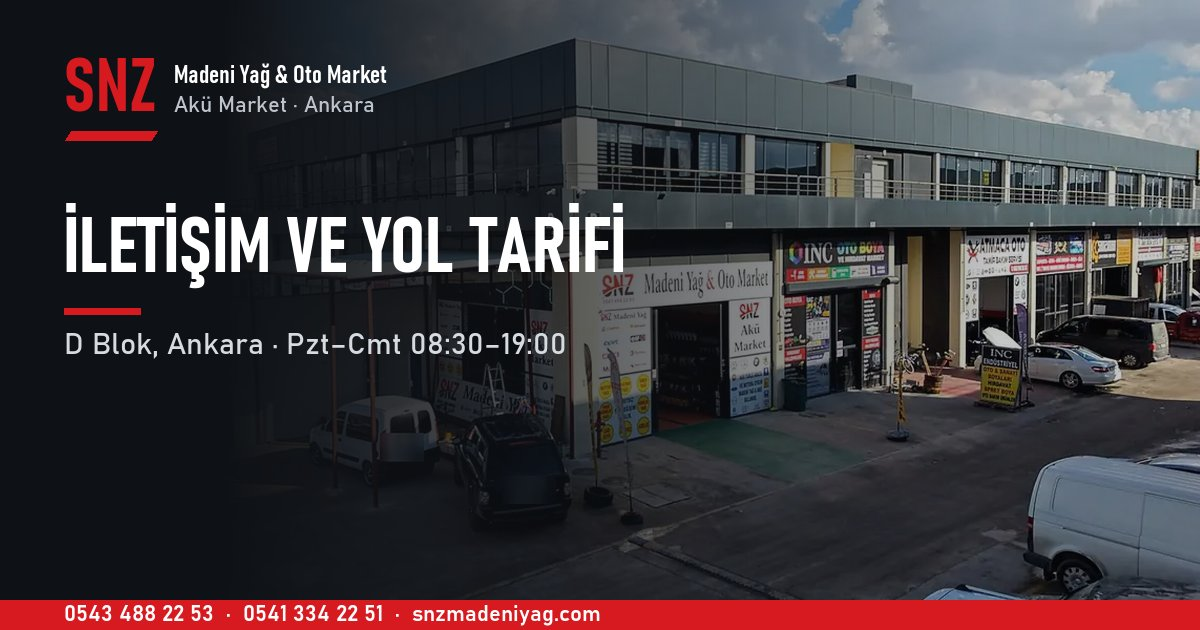
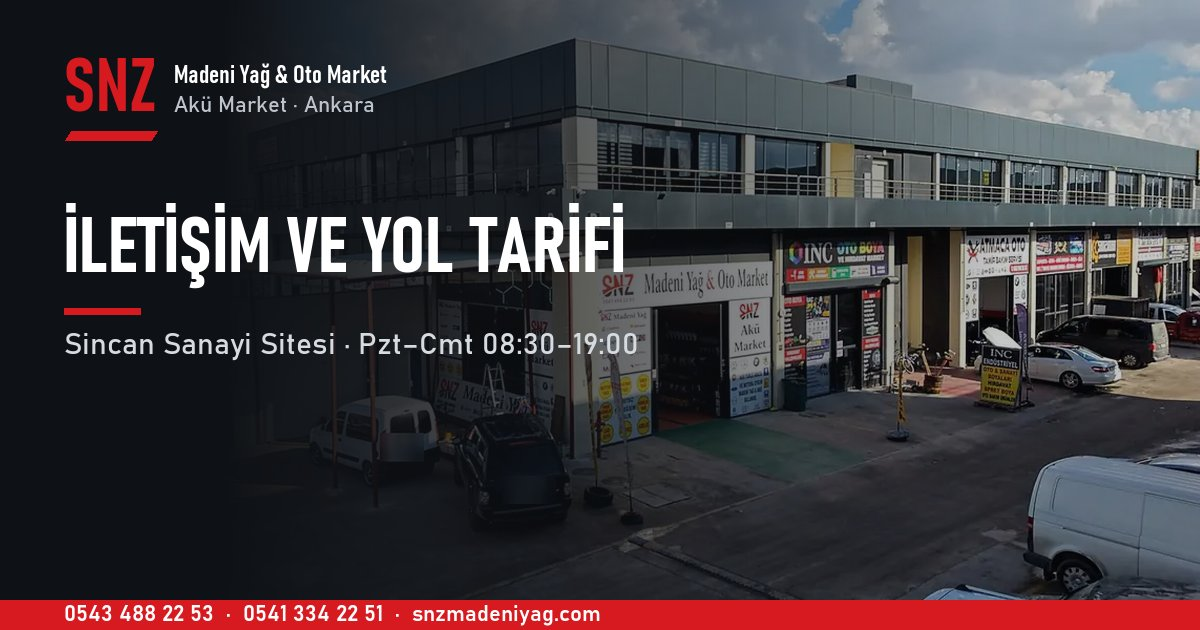
İletişim adresi güncellendi: Sehaş Arena İş Merkezi, Sincan Sanayi Sitesi

Changed region(s): [[0.0617, 0.5127, 0.5242, 0.573]]

diff --git a/index.html b/index.html
@@ -4,7 +4,7 @@
   <meta charset="UTF-8">
   <meta name="viewport" content="width=device-width, initial-scale=1.0">
   <title>SNZ Madeni Yağ &amp; Akü Market Ankara | Motor Yağı, Akü, AdBlue</title>
-  <meta name="description" content="Ankara D Blok&#x27;ta SNZ Madeni Yağ &amp; Oto Market ve SNZ Akü Market: Castrol, Shell, Mobil, Motul, Petrol Ofisi motor yağları, aküler, hidrolik ve gres yağları, AdBlue. Yağ değişimi ve ücretsiz akü testi.">
+  <meta name="description" content="Ankara Sincan Sanayi Sitesi&#x27;nde SNZ Madeni Yağ &amp; Oto Market ve SNZ Akü Market: Castrol, Shell, Mobil, Motul, Petrol Ofisi motor yağları, aküler, hidrolik ve gres yağları, AdBlue. Yağ değişimi ve ücretsiz akü testi.">
   <meta name="robots" content="index, follow">
   <link rel="canonical" href="https://www.snzmadeniyag.com/">
   <!-- Google Search Console: doğrulama kodunu _araclar/seo.py içindeki GSC_CODE alanına yazın -->
@@ -18,14 +18,14 @@
   <meta property="og:locale" content="tr_TR">
   <meta property="og:locale:alternate" content="en_US">
   <meta property="og:title" content="SNZ Madeni Yağ &amp; Akü Market Ankara | Motor Yağı, Akü, AdBlue">
-  <meta property="og:description" content="Ankara D Blok&#x27;ta SNZ Madeni Yağ &amp; Oto Market ve SNZ Akü Market: Castrol, Shell, Mobil, Motul, Petrol Ofisi motor yağları, aküler, hidrolik ve gres yağları, AdBlue. Yağ değişimi ve ücretsiz akü testi.">
+  <meta property="og:description" content="Ankara Sincan Sanayi Sitesi&#x27;nde SNZ Madeni Yağ &amp; Oto Market ve SNZ Akü Market: Castrol, Shell, Mobil, Motul, Petrol Ofisi motor yağları, aküler, hidrolik ve gres yağları, AdBlue. Yağ değişimi ve ücretsiz akü testi.">
   <meta property="og:url" content="https://www.snzmadeniyag.com/">
   <meta property="og:image" content="https://www.snzmadeniyag.com/assets/img/og/og-index.jpg">
   <meta property="og:image:width" content="1200">
   <meta property="og:image:height" content="630">
   <meta name="twitter:card" content="summary_large_image">
   <meta name="twitter:title" content="SNZ Madeni Yağ &amp; Akü Market Ankara | Motor Yağı, Akü, AdBlue">
-  <meta name="twitter:description" content="Ankara D Blok&#x27;ta SNZ Madeni Yağ &amp; Oto Market ve SNZ Akü Market: Castrol, Shell, Mobil, Motul, Petrol Ofisi motor yağları, aküler, hidrolik ve gres yağları, AdBlue. Yağ değişimi ve ücretsiz akü testi.">
+  <meta name="twitter:description" content="Ankara Sincan Sanayi Sitesi&#x27;nde SNZ Madeni Yağ &amp; Oto Market ve SNZ Akü Market: Castrol, Shell, Mobil, Motul, Petrol Ofisi motor yağları, aküler, hidrolik ve gres yağları, AdBlue. Yağ değişimi ve ücretsiz akü testi.">
   <meta name="twitter:image" content="https://www.snzmadeniyag.com/assets/img/og/og-index.jpg">
 
   <link rel="preconnect" href="https://fonts.googleapis.com">
@@ -68,8 +68,8 @@
      "telephone": "+90-543-488-22-53",
      "address": {
       "@type": "PostalAddress",
-      "streetAddress": "D Blok, Sanayi Sitesi",
-      "addressLocality": "Ankara",
+      "streetAddress": "Sehaş Arena İş Merkezi, Ahi Evran, 225. Cd. Sincan Sanayi Sitesi No:38D Blok1",
+      "addressLocality": "Sincan",
       "addressRegion": "Ankara",
       "addressCountry": "TR"
      },
@@ -103,8 +103,8 @@
      "telephone": "+90-541-334-22-51",
      "address": {
       "@type": "PostalAddress",
-      "streetAddress": "D Blok, Sanayi Sitesi",
-      "addressLocality": "Ankara",
+      "streetAddress": "Sehaş Arena İş Merkezi, Ahi Evran, 225. Cd. Sincan Sanayi Sitesi No:38D Blok1",
+      "addressLocality": "Sincan",
       "addressRegion": "Ankara",
       "addressCountry": "TR"
      },

diff --git a/hakkimizda.html b/hakkimizda.html
@@ -4,7 +4,7 @@
   <meta charset="UTF-8">
   <meta name="viewport" content="width=device-width, initial-scale=1.0">
   <title>Hakkımızda | SNZ Madeni Yağ &amp; Akü Market Ankara</title>
-  <meta name="description" content="SNZ Madeni Yağ &amp; Oto Market ve SNZ Akü Market: Ankara D Blok&#x27;ta yan yana iki mağaza. Orijinal ürün, uzman tavsiye ve uygun fiyatla madeni yağ ve akü.">
+  <meta name="description" content="SNZ Madeni Yağ &amp; Oto Market ve SNZ Akü Market: Sincan Sanayi Sitesi, Sehaş Arena İş Merkezi&#x27;nde yan yana iki mağaza. Orijinal ürün, uzman tavsiye ve uygun fiyatla madeni yağ ve akü.">
   <meta name="robots" content="index, follow">
   <link rel="canonical" href="https://www.snzmadeniyag.com/hakkimizda.html">
   <!-- Google Search Console: doğrulama kodunu _araclar/seo.py içindeki GSC_CODE alanına yazın -->
@@ -18,14 +18,14 @@
   <meta property="og:locale" content="tr_TR">
   <meta property="og:locale:alternate" content="en_US">
   <meta property="og:title" content="Hakkımızda | SNZ Madeni Yağ &amp; Akü Market Ankara">
-  <meta property="og:description" content="SNZ Madeni Yağ &amp; Oto Market ve SNZ Akü Market: Ankara D Blok&#x27;ta yan yana iki mağaza. Orijinal ürün, uzman tavsiye ve uygun fiyatla madeni yağ ve akü.">
+  <meta property="og:description" content="SNZ Madeni Yağ &amp; Oto Market ve SNZ Akü Market: Sincan Sanayi Sitesi, Sehaş Arena İş Merkezi&#x27;nde yan yana iki mağaza. Orijinal ürün, uzman tavsiye ve uygun fiyatla madeni yağ ve akü.">
   <meta property="og:url" content="https://www.snzmadeniyag.com/hakkimizda.html">
   <meta property="og:image" content="https://www.snzmadeniyag.com/assets/img/og/og-hakkimizda.jpg">
   <meta property="og:image:width" content="1200">
   <meta property="og:image:height" content="630">
   <meta name="twitter:card" content="summary_large_image">
   <meta name="twitter:title" content="Hakkımızda | SNZ Madeni Yağ &amp; Akü Market Ankara">
-  <meta name="twitter:description" content="SNZ Madeni Yağ &amp; Oto Market ve SNZ Akü Market: Ankara D Blok&#x27;ta yan yana iki mağaza. Orijinal ürün, uzman tavsiye ve uygun fiyatla madeni yağ ve akü.">
+  <meta name="twitter:description" content="SNZ Madeni Yağ &amp; Oto Market ve SNZ Akü Market: Sincan Sanayi Sitesi, Sehaş Arena İş Merkezi&#x27;nde yan yana iki mağaza. Orijinal ürün, uzman tavsiye ve uygun fiyatla madeni yağ ve akü.">
   <meta name="twitter:image" content="https://www.snzmadeniyag.com/assets/img/og/og-hakkimizda.jpg">
 
   <link rel="preconnect" href="https://fonts.googleapis.com">
@@ -55,8 +55,8 @@
      "telephone": "+90-543-488-22-53",
      "address": {
       "@type": "PostalAddress",
-      "streetAddress": "D Blok, Sanayi Sitesi",
-      "addressLocality": "Ankara",
+      "streetAddress": "Sehaş Arena İş Merkezi, Ahi Evran, 225. Cd. Sincan Sanayi Sitesi No:38D Blok1",
+      "addressLocality": "Sincan",
       "addressRegion": "Ankara",
       "addressCountry": "TR"
      },
@@ -90,8 +90,8 @@
      "telephone": "+90-541-334-22-51",
      "address": {
       "@type": "PostalAddress",
-      "streetAddress": "D Blok, Sanayi Sitesi",
-      "addressLocality": "Ankara",
+      "streetAddress": "Sehaş Arena İş Merkezi, Ahi Evran, 225. Cd. Sincan Sanayi Sitesi No:38D Blok1",
+      "addressLocality": "Sincan",
       "addressRegion": "Ankara",
       "addressCountry": "TR"
      },

diff --git a/iletisim.html b/iletisim.html
@@ -4,7 +4,7 @@
   <meta charset="UTF-8">
   <meta name="viewport" content="width=device-width, initial-scale=1.0">
   <title>İletişim ve Yol Tarifi | SNZ Madeni Yağ &amp; Akü Market Ankara</title>
-  <meta name="description" content="SNZ Madeni Yağ &amp; Oto Market ve SNZ Akü Market adres, telefon, WhatsApp ve çalışma saatleri. D Blok, Ankara. Pzt–Cmt 08:30–19:00.">
+  <meta name="description" content="SNZ Madeni Yağ &amp; Oto Market ve SNZ Akü Market adres, telefon, WhatsApp ve çalışma saatleri. Sehaş Arena İş Merkezi, Sincan Sanayi Sitesi, Ankara. Pzt–Cmt 08:30–19:00.">
   <meta name="robots" content="index, follow">
   <link rel="canonical" href="https://www.snzmadeniyag.com/iletisim.html">
   <!-- Google Search Console: doğrulama kodunu _araclar/seo.py içindeki GSC_CODE alanına yazın -->
@@ -18,14 +18,14 @@
   <meta property="og:locale" content="tr_TR">
   <meta property="og:locale:alternate" content="en_US">
   <meta property="og:title" content="İletişim ve Yol Tarifi | SNZ Madeni Yağ &amp; Akü Market Ankara">
-  <meta property="og:description" content="SNZ Madeni Yağ &amp; Oto Market ve SNZ Akü Market adres, telefon, WhatsApp ve çalışma saatleri. D Blok, Ankara. Pzt–Cmt 08:30–19:00.">
+  <meta property="og:description" content="SNZ Madeni Yağ &amp; Oto Market ve SNZ Akü Market adres, telefon, WhatsApp ve çalışma saatleri. Sehaş Arena İş Merkezi, Sincan Sanayi Sitesi, Ankara. Pzt–Cmt 08:30–19:00.">
   <meta property="og:url" content="https://www.snzmadeniyag.com/iletisim.html">
   <meta property="og:image" content="https://www.snzmadeniyag.com/assets/img/og/og-iletisim.jpg">
   <meta property="og:image:width" content="1200">
   <meta property="og:image:height" content="630">
   <meta name="twitter:card" content="summary_large_image">
   <meta name="twitter:title" content="İletişim ve Yol Tarifi | SNZ Madeni Yağ &amp; Akü Market Ankara">
-  <meta name="twitter:description" content="SNZ Madeni Yağ &amp; Oto Market ve SNZ Akü Market adres, telefon, WhatsApp ve çalışma saatleri. D Blok, Ankara. Pzt–Cmt 08:30–19:00.">
+  <meta name="twitter:description" content="SNZ Madeni Yağ &amp; Oto Market ve SNZ Akü Market adres, telefon, WhatsApp ve çalışma saatleri. Sehaş Arena İş Merkezi, Sincan Sanayi Sitesi, Ankara. Pzt–Cmt 08:30–19:00.">
   <meta name="twitter:image" content="https://www.snzmadeniyag.com/assets/img/og/og-iletisim.jpg">
 
   <link rel="preconnect" href="https://fonts.googleapis.com">
@@ -55,8 +55,8 @@
      "telephone": "+90-543-488-22-53",
      "address": {
       "@type": "PostalAddress",
-      "streetAddress": "D Blok, Sanayi Sitesi",
-      "addressLocality": "Ankara",
+      "streetAddress": "Sehaş Arena İş Merkezi, Ahi Evran, 225. Cd. Sincan Sanayi Sitesi No:38D Blok1",
+      "addressLocality": "Sincan",
       "addressRegion": "Ankara",
       "addressCountry": "TR"
      },
@@ -90,8 +90,8 @@
      "telephone": "+90-541-334-22-51",
      "address": {
       "@type": "PostalAddress",
-      "streetAddress": "D Blok, Sanayi Sitesi",
-      "addressLocality": "Ankara",
+      "streetAddress": "Sehaş Arena İş Merkezi, Ahi Evran, 225. Cd. Sincan Sanayi Sitesi No:38D Blok1",
+      "addressLocality": "Sincan",
       "addressRegion": "Ankara",
       "addressCountry": "TR"
      },

diff --git a/assets/js/main.js b/assets/js/main.js
@@ -8,12 +8,14 @@ const SITE = {
   phone2: "0541 334 22 51",
   whatsapp: "905434882253",           // başında 90, boşluksuz
   email: "info@snzmadeniyag.com",     // TODO: gerçek e-posta
-  address: "D Blok, Sanayi Sitesi, Ankara", // TODO: tam adres
-  addressEn: "Block D, Industrial Estate, Ankara, Türkiye",
-  mapQuery: "SNZ Madeni Yağ Oto Market Ankara", // TODO: harita için tam adres
+  address: "Sehaş Arena İş Merkezi, Ahi Evran, 225. Cd. Sincan Sanayi Sitesi No:38D Blok1, Sincan/Ankara",
+  addressShort: "Sehaş Arena İş Merkezi, Sincan Sanayi Sitesi, Ankara", // üst bar için kısa hali
+  addressShortEn: "Sehaş Arena Business Center, Sincan Industrial Estate, Ankara",
+  addressEn: "Sehaş Arena Business Center, Ahi Evran, 225th St., Sincan Industrial Estate No:38D Block 1, Sincan/Ankara, Türkiye",
+  mapQuery: "Sehaş Arena İş Merkezi, 225. Cd. No:38, Sincan Sanayi Sitesi, Sincan/Ankara",
   hours: { weekdays: "08:30 – 19:00", saturday: "08:30 – 19:00", sunday: "Kapalı", sundayEn: "Closed" },
   instagram: "#",
-  mapsUrl: "https://www.google.com/maps/search/?api=1&query=" + encodeURIComponent("SNZ Madeni Yağ Oto Market Ankara"), // TODO: Google Maps paylaşım linki
+  mapsUrl: "https://www.google.com/maps/search/?api=1&query=" + encodeURIComponent("Sehaş Arena İş Merkezi, 225. Cd. No:38, Sincan Sanayi Sitesi, Sincan/Ankara"), // TODO: Google Maps paylaşım linki
   googleReviewsUrl: "",  // TODO: Google işletme profilindeki "Yorum yaz" linki
 };
 
@@ -80,8 +82,8 @@ function renderLayout() {
     <div class="container">
       <div class="topbar-info">
         <span>${svg("phone")}<a href="${tel(SITE.phone1)}">${SITE.phone1}</a></span>
-        <span class="hide-sm">${svg("pin")}<span data-en="${SITE.addressEn}">${SITE.address}</span></span>
-        <span class="hide-sm">${svg("clock")}<span data-en="Mon – Sat: ${SITE.hours.weekdays}">Pzt – Cmt: ${SITE.hours.weekdays}</span></span>
+        <span class="hide-sm">${svg("pin")}<a href="${SITE.mapsUrl}" target="_blank" rel="noopener" data-en="${SITE.addressShortEn}">${SITE.addressShort}</a></span>
+        <span class="hide-sm hide-md">${svg("clock")}<span data-en="Mon – Sat: ${SITE.hours.weekdays}">Pzt – Cmt: ${SITE.hours.weekdays}</span></span>
       </div>
       <div class="lang-switch" role="group" aria-label="Dil / Language">
         <button type="button" data-lang="tr">TR</button><button type="button" data-lang="en">EN</button>

diff --git a/assets/css/style.css b/assets/css/style.css
@@ -91,6 +91,9 @@ p { margin: 0 0 1em; }
 .topbar a:hover { color: #fff; }
 .topbar-info { display: flex; gap: 22px; flex-wrap: wrap; }
 .topbar-info span { display: inline-flex; align-items: center; gap: 6px; }
+.topbar-info { flex-wrap: nowrap; min-width: 0; }
+.topbar-info span { white-space: nowrap; }
+@media (max-width: 1080px) { .topbar-info span.hide-md { display: none; } }
 .topbar svg { width: 15px; height: 15px; color: var(--red); }
 
 .lang-switch { display: inline-flex; border: 1px solid #3a424b; border-radius: 6px; overflow: hidden; }

diff --git a/_araclar/seo.py b/_araclar/seo.py
@@ -13,8 +13,8 @@ BASE_PATH = "/snzmadeniyag/"                # GitHub Pages önizlemesi; kendi al
 GSC_CODE = ""                                # Google Search Console doğrulama kodu (content="..." değeri)
 
 PHONE1, PHONE2 = "+90-543-488-22-53", "+90-541-334-22-51"
-STREET = "D Blok, Sanayi Sitesi"             # TODO: tam adres
-CITY, REGION = "Ankara", "Ankara"
+STREET = "Sehaş Arena İş Merkezi, Ahi Evran, 225. Cd. Sincan Sanayi Sitesi No:38D Blok1"
+CITY, REGION = "Sincan", "Ankara"
 HOURS = [{"@type": "OpeningHoursSpecification",
           "dayOfWeek": ["Monday", "Tuesday", "Wednesday", "Thursday", "Friday", "Saturday"],
           "opens": "08:30", "closes": "19:00"}]
@@ -22,10 +22,10 @@ HOURS = [{"@type": "OpeningHoursSpecification",
 # sayfa: (başlık, açıklama, og görseli, işaret yolu adı, indexlensin mi, sitemap önceliği)
 PAGES = {
  "index.html": ("SNZ Madeni Yağ & Akü Market Ankara | Motor Yağı, Akü, AdBlue",
-   "Ankara D Blok'ta SNZ Madeni Yağ & Oto Market ve SNZ Akü Market: Castrol, Shell, Mobil, Motul, Petrol Ofisi motor yağları, aküler, hidrolik ve gres yağları, AdBlue. Yağ değişimi ve ücretsiz akü testi.",
+   "Ankara Sincan Sanayi Sitesi'nde SNZ Madeni Yağ & Oto Market ve SNZ Akü Market: Castrol, Shell, Mobil, Motul, Petrol Ofisi motor yağları, aküler, hidrolik ve gres yağları, AdBlue. Yağ değişimi ve ücretsiz akü testi.",
    "og-index.jpg", None, True, "1.0"),
  "hakkimizda.html": ("Hakkımızda | SNZ Madeni Yağ & Akü Market Ankara",
-   "SNZ Madeni Yağ & Oto Market ve SNZ Akü Market: Ankara D Blok'ta yan yana iki mağaza. Orijinal ürün, uzman tavsiye ve uygun fiyatla madeni yağ ve akü.",
+   "SNZ Madeni Yağ & Oto Market ve SNZ Akü Market: Sincan Sanayi Sitesi, Sehaş Arena İş Merkezi'nde yan yana iki mağaza. Orijinal ürün, uzman tavsiye ve uygun fiyatla madeni yağ ve akü.",
    "og-hakkimizda.jpg", "Hakkımızda", True, "0.8"),
  "urunler.html": ("Ürünler: Motor Yağı, Akü, Gres, AdBlue | SNZ Ankara",
    "Tam sentetik ve mineral motor yağları, binek ve ağır vasıta aküleri, hidrolik, şanzıman ve gres yağları, AdBlue, antifriz ve bakım ürünleri. Ankara'da stoktan teslim.",
@@ -46,7 +46,7 @@ PAGES = {
    "Hangi motor yağı uygun, yağ ne sıklıkla değişir, akü ne zaman değişmeli, AdBlue nedir? Motor yağı ve akü hakkında kısa ve net cevaplar.",
    "og-sss.jpg", "SSS", True, "0.6"),
  "iletisim.html": ("İletişim ve Yol Tarifi | SNZ Madeni Yağ & Akü Market Ankara",
-   "SNZ Madeni Yağ & Oto Market ve SNZ Akü Market adres, telefon, WhatsApp ve çalışma saatleri. D Blok, Ankara. Pzt–Cmt 08:30–19:00.",
+   "SNZ Madeni Yağ & Oto Market ve SNZ Akü Market adres, telefon, WhatsApp ve çalışma saatleri. Sehaş Arena İş Merkezi, Sincan Sanayi Sitesi, Ankara. Pzt–Cmt 08:30–19:00.",
    "og-iletisim.jpg", "İletişim", True, "0.8"),
  "gizlilik.html": ("Gizlilik Politikası ve KVKK Aydınlatma Metni | SNZ",
    "SNZ Madeni Yağ Ltd. Şti. KVKK aydınlatma metni ve çerez politikası: hangi verileri, hangi amaçla işlediğimiz ve haklarınız.",

diff --git a/_araclar/og.py b/_araclar/og.py
@@ -62,7 +62,7 @@ JOBS = [
  ("galeri/ga2.webp", "og-galeri.jpg", "Galeri", "Mağaza, atölye ve saha fotoğrafları"),
  ("galeri/g53.webp", "og-markalar.jpg", "Dünya Markaları Tek Çatı Altında", "Castrol · Shell · Mobil · Motul · Turbo Akü"),
  ("magaza-ic.webp", "og-sss.jpg", "Sıkça Sorulan Sorular", "Motor yağı ve akü hakkında net cevaplar"),
- ("bina-genis.webp", "og-iletisim.jpg", "İletişim ve Yol Tarifi", "D Blok, Ankara · Pzt–Cmt 08:30–19:00"),
+ ("bina-genis.webp", "og-iletisim.jpg", "İletişim ve Yol Tarifi", "Sincan Sanayi Sitesi · Pzt–Cmt 08:30–19:00"),
 ]
 for j in JOBS: og(*j)
 

diff --git a/CLAUDE.md b/CLAUDE.md
@@ -4,7 +4,7 @@ This file provides guidance to Claude Code (claude.ai/code) when working with co
 
 ## Project
 
-Static corporate site (plain HTML/CSS/JS, no build step, no framework, no tests) for two neighbouring stores in an Ankara sanayi sitesi: **SNZ Madeni Yağ & Oto Market** and **SNZ Akü Market**. The site is bilingual, with Turkish as the source language and English via `data-en`. The user communicates in Turkish.
+Static corporate site (plain HTML/CSS/JS, no build step, no framework, no tests) for two neighbouring stores at Sehaş Arena İş Merkezi, 225. Cd. No:38 D Blok 1, Sincan Sanayi Sitesi, Sincan/Ankara: **SNZ Madeni Yağ & Oto Market** and **SNZ Akü Market**. The site is bilingual, with Turkish as the source language and English via `data-en`. The user communicates in Turkish.
 
 - Repo: `ysnbilici06/snzmadeniyag`, branch `main`. GitHub Pages serves it at https://ysnbilici06.github.io/snzmadeniyag/ and every push to `main` redeploys.
 - The planned domain `https://www.snzmadeniyag.com` is not bought yet. Canonicals, OG URLs and the sitemap already point at it.
@@ -26,7 +26,7 @@ Video re-encoding uses ffmpeg from `imageio_ffmpeg.get_ffmpeg_exe()` (libx264, `
 
 **Shared layout is injected by JS.** Each page has only `<div id="site-header">` and `<div id="site-footer">`. `assets/js/main.js` `renderLayout()` builds the header, nav (the `NAV` array), footer, floating buttons and the mobile bottom bar (`.mobile-bar`). To add a page, add it to `NAV` in main.js and to `PAGES` in `_araclar/seo.py`.
 
-**Contact data lives in one place.** The `SITE` object at the top of main.js holds phones, WhatsApp, email, address, `mapsUrl` and `googleReviewsUrl`. Markup uses placeholders that main.js fills in: `<a data-site="phone1|phone2|whatsapp|email|...">` and `<i data-icon="name">`, with SVGs taken from the `ICONS` map. Never hardcode phone numbers or addresses in the HTML. `seo.py` keeps its own copies (`PHONE1/2`, `STREET`, `HOURS`) for JSON-LD, so keep both in sync.
+**Contact data lives in one place.** The `SITE` object at the top of main.js holds phones, the full address plus a short `addressShort` for the top bar, WhatsApp, email, address, `mapsUrl` and `googleReviewsUrl`. Markup uses placeholders that main.js fills in: `<a data-site="phone1|phone2|whatsapp|email|...">` and `<i data-icon="name">`, with SVGs taken from the `ICONS` map. Never hardcode phone numbers or addresses in the HTML. `seo.py` keeps its own copies (`PHONE1/2`, `STREET`, `HOURS`) for JSON-LD, so keep both in sync.
 
 **i18n.** Turkish text sits in the markup. Translations use these attributes:
 - `data-en` holds the English innerHTML.
@@ -68,7 +68,6 @@ Then add a `CNAME` file and rerun `seo.py` and `og.py`.
 
 ## Open TODOs (waiting on owner input)
 
-- Full address: `SITE.address`/`mapQuery` and `seo.py` `STREET`.
 - Real email.
 - Google Maps share links (`SITE.mapsUrl`) and a two-store map visual for iletisim.html.
 - `googleReviewsUrl` and real reviews.
